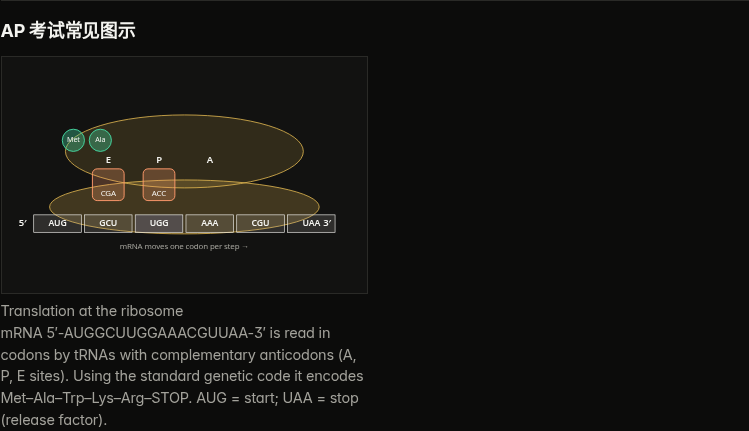
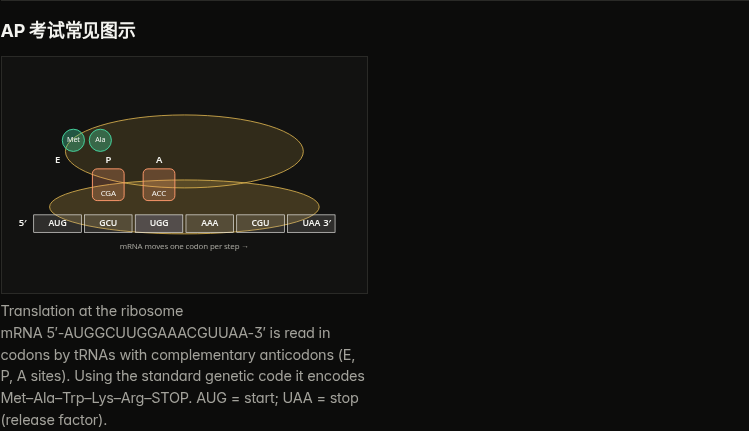
Self-check bio/math figures: fix label alignment and shading

Changed region(s): [[0.0, 0.8144, 0.4913, 0.9049]]

diff --git a/data/math/figures.js b/data/math/figures.js
@@ -190,7 +190,7 @@ def('fdt-chart', 'First derivative test sign chart', 'Sign chart of \\(f\'(x)=3(
 def('candidates', 'Candidates (closed interval) test', '\\(f(x)=2x^3-3x^2-12x\\) on \\([-2,3]\\): \\(f(-2)=-4\\), \\(f(-1)=7\\), \\(f(2)=-20\\), \\(f(3)=-9\\) ⇒ absolute max 7, absolute min −20.', () =>
   plot({ x: [-2.5, 3.5], y: [-24, 12], curves: [{ f: (x) => 2 * x ** 3 - 3 * x * x - 12 * x, dom: [-2, 3], color: C.a }], points: [[-2, -4], [-1, 7], [2, -20], [3, -9]].map(([x, y]) => ({ x, y, label: `(${x}, ${y})`, color: y === 7 || y === -20 ? C.b : C.ink, dy: y === -20 ? 14 : -12 })) }));
 def('concavity', 'Concavity and inflection', '\\(f=\\sin x\\) on \\([0,2\\pi]\\): \\(f\'\'=-\\sin x<0\\) on \\((0,\\pi)\\) (concave down), \\(>0\\) on \\((\\pi,2\\pi)\\) (concave up); inflection at \\(x=\\pi\\).', () =>
-  plot({ x: [0, 2 * PI], y: [-1.5, 1.5], piX: 0.5, ystep: 0.5, fills: [{ f: () => 1.5, g: () => -1.5, dom: [PI, 2 * PI], color: C.c, op: 0.04 }], curves: [{ f: sin, color: C.a, label: 'f = sin x', labelAt: [0.35, 1.1] }, { f: (x) => -sin(x), color: C.c, dash: '5 3', label: 'f″', labelAt: [4.4, 1.2], labelColor: C.ink }], points: [{ x: PI, y: 0, color: C.b, label: 'inflection' }], texts: [[PI / 2, -1.25, 'concave down', C.ink], [1.5 * PI, -1.25, 'concave up', C.ink]] }));
+  plot({ x: [0, 2 * PI], y: [-1.5, 1.5], piX: 0.5, ystep: 0.5, fills: [{ f: () => 1.5, g: () => -1.5, dom: [PI, 2 * PI], color: C.c, op: 0.08 }], curves: [{ f: sin, color: C.a, label: 'f = sin x', labelAt: [0.35, 1.1] }, { f: (x) => -sin(x), color: C.c, dash: '5 3', label: 'f″', labelAt: [4.4, 1.2], labelColor: C.ink }], points: [{ x: PI, y: 0, color: C.b, label: 'inflection' }], texts: [[PI / 2, -1.25, 'concave down', C.ink], [1.5 * PI, -1.25, 'concave up', C.ink]] }));
 def('sdt', 'Second derivative test', '\\(f=x^4-2x^2\\): \\(f\'=4x^3-4x=0\\) at \\(0,\\pm1\\). \\(f\'\'=12x^2-4\\): \\(f\'\'(\\pm1)=8>0\\) (local min), \\(f\'\'(0)=-4<0\\) (local max).', () =>
   plot({ x: [-2, 2], y: [-1.5, 3], ystep: 0.5, curves: [{ f: (x) => x ** 4 - 2 * x * x, color: C.a }], points: [{ x: -1, y: -1, label: 'f″ = 8: min', dy: 14, anchor: 'end', dx: -4 }, { x: 1, y: -1, label: 'f″ = 8: min', dy: 14 }, { x: 0, y: 0, label: 'f″ = −4: max' }] }));
 def('optimization', 'Optimization: open-top box volume', 'Square sheet 12×12, cut squares of side x: \\(V(x)=x(12-2x)^2\\), \\(V\'=(12-2x)(12-6x)=0\\Rightarrow x=2\\), \\(V_{\\max}=128\\).', () =>
@@ -423,7 +423,7 @@ def('lagrange', 'Lagrange error bound', '', () => {
 });
 def('interval-conv', 'Radius and interval of convergence', '\\(\\ln(1+x)=\\sum_{n=1}^\\infty\\dfrac{(-1)^{n+1}x^n}{n}\\): radius 1, interval \\((-1,1]\\) (shaded). Partial sums \\(S_{10}\\), \\(S_{20}\\) track \\(\\ln(1+x)\\) inside and blow up for \\(|x|>1\\).', () => {
   const S = (N) => (x) => { let s = 0; for (let n = 1; n <= N; n++) s += ((-1) ** (n + 1) * x ** n) / n; return s; };
-  return plot({ x: [-1.5, 1.5], y: [-3, 2], xstep: 0.5, fills: [{ f: () => 2, g: () => -3, dom: [-1, 1], color: C.c, op: 0.03 }], vlines: [{ x: -1, label: 'x = −1' }, { x: 1, label: 'x = 1' }], curves: [{ f: (x) => log(1 + x), dom: [-0.999, 1.5], color: C.ink, w: 2.6, label: 'ln(1+x)', labelAt: [0.3, 0.75] }, { f: S(10), color: C.a, dash: '6 3', label: 'S₁₀', labelAt: [1.15, -1.8] }, { f: S(20), color: C.b, dash: '3 3', label: 'S₂₀', labelAt: [-1.45, -2.7] }] });
+  return plot({ x: [-1.5, 1.5], y: [-3, 2], xstep: 0.5, fills: [{ f: () => 2, g: () => -3, dom: [-1, 1], color: C.c, op: 0.1 }], vlines: [{ x: -1, label: 'x = −1', labelColor: C.ink }, { x: 1, label: 'x = 1', labelColor: C.ink }], curves: [{ f: (x) => log(1 + x), dom: [-0.999, 1.5], color: C.ink, w: 2.6, label: 'ln(1+x)', labelAt: [0.3, 0.75] }, { f: S(10), color: C.a, dash: '6 3', label: 'S₁₀', labelAt: [1.15, -1.8] }, { f: S(20), color: C.b, dash: '3 3', label: 'S₂₀', labelAt: [-1.45, -2.7] }] });
 });
 def('maclaurin-cos', 'Maclaurin series for cos x', '\\(\\cos x=\\sum_{n=0}^\\infty\\dfrac{(-1)^nx^{2n}}{(2n)!}=1-\\dfrac{x^2}{2!}+\\dfrac{x^4}{4!}-\\cdots\\), converges for all real x. Polynomials \\(P_2\\) to \\(P_8\\) shown.', () => {
   const P = (n) => (x) => { let s = 0; for (let k = 0; 2 * k <= n; k++) s += ((-1) ** k * x ** (2 * k)) / fact(2 * k); return s; };
@@ -469,7 +469,7 @@ function matrixFig(M, lbl) {
 def('matrix-transform', 'Matrix as a linear transformation', '\\(\\begin{bmatrix}2&1\\\\0&1\\end{bmatrix}\\) maps the unit square (grey) to a parallelogram of area \\(|\\det|=2\\); the columns are the images of \\(\\hat\\imath\\) and \\(\\hat\\jmath\\).', () => matrixFig([[2, 1], [0, 1]], 'matrix transform'));
 def('matrix-rot', 'Rotation matrix', 'Rotation by \\(\\dfrac{\\pi}{4}\\): \\(\\begin{bmatrix}\\cos\\theta&-\\sin\\theta\\\\\\sin\\theta&\\cos\\theta\\end{bmatrix}\\), det = 1 (area preserved).', () => matrixFig([[cos(PI / 4), -sin(PI / 4)], [sin(PI / 4), cos(PI / 4)]], 'rotation matrix'));
 def('rational-analysis', 'Rational function: asymptotes, hole, intercepts', '\\(f(x)=\\dfrac{(x-1)(x+3)}{(x-1)(x-2)}\\): hole at \\((1,-4)\\), vertical asymptote \\(x=2\\), horizontal asymptote \\(y=1\\), x-intercept \\(-3\\), y-intercept \\(f(0)=-\\dfrac32\\).', () =>
-  plot({ x: [-6, 7], y: [-8, 8], vlines: [{ x: 2, label: 'x = 2' }], hlines: [{ y: 1, label: 'y = 1' }], curves: [{ f: (x) => (abs(x - 1) < 1e-9 ? NaN : ((x - 1) * (x + 3)) / ((x - 1) * (x - 2))), n: 1300, color: C.a }], points: [{ x: 1, y: -4, open: true, color: C.a, label: 'hole (1, −4)', anchor: 'end', dx: -8 }, { x: -3, y: 0, label: '(−3, 0)', dy: 14 }, { x: 0, y: -1.5, label: '(0, −3/2)', anchor: 'end', dx: -8 }] }));
+  plot({ x: [-6, 7], y: [-8, 8], vlines: [{ x: 2, label: 'x = 2' }], hlines: [{ y: 1, label: 'y = 1' }], curves: [{ f: (x) => (abs(x - 1) < 1e-9 ? NaN : ((x - 1) * (x + 3)) / ((x - 1) * (x - 2))), n: 1300, color: C.a }], points: [{ x: 1, y: -4, open: true, color: C.a, label: 'hole (1, −4)', anchor: 'start', dx: 10, dy: 14 }, { x: -3, y: 0, label: '(−3, 0)', anchor: 'end', dx: -8, dy: -12 }, { x: 0, y: -1.5, label: '(0, −3/2)', anchor: 'start', dx: 10, dy: 14 }] }));
 def('exp-log-model', 'Exponential decay model (half-life)', '\\(A(t)=100\\left(\\tfrac12\\right)^{t/5}\\): half-life 5, so A halves every 5 units. Taking logs, \\(\\ln A=\\ln100-\\dfrac{\\ln2}{5}t\\) is linear in t.', () =>
   plot({ x: [0, 21], y: [0, 110], xlabel: 't', ylabel: 'A', curves: [{ f: (t) => 100 * 0.5 ** (t / 5), color: C.a }], points: [0, 5, 10, 15, 20].map((t) => ({ x: t, y: 100 * 0.5 ** (t / 5), label: fmt(100 * 0.5 ** (t / 5), 2) })) }));
 def('rate-intuition', 'Rate of change intuition: shrinking intervals', 'Distance \\(d(t)=4.9t^2\\): average speeds on \\([1,2],[1,1.5],[1,1.1],[1,1.01]\\) are \\(14.7, 12.25, 10.29, 9.849\\) m/s, approaching the instantaneous speed \\(9.8\\) m/s at \\(t=1\\).', () =>

diff --git a/data/bio/figures.js b/data/bio/figures.js
@@ -22,7 +22,7 @@ function peakOf(f, a, b) { let bx = a, by = -1; for (let x = a; x <= b; x += 0.0
 def('enz-temp', 'Enzyme activity vs temperature', '', () => {
   const h = enzT(45), t = enzT(85), [ph, py] = peakOf(h, 0, 100), [tp, ty] = peakOf(t, 0, 100), s = 1 / Math.max(py, ty);
   setCap('enz-temp', `Rate = Arrhenius factor \\(e^{-E_a/RT}\\) (\\(E_a=50\\) kJ/mol) × fraction folded (two-state unfolding). Human enzyme (\\(T_m=45\\)°C) peaks near ${fmt(ph, 0)}°C; thermophile enzyme (\\(T_m=85\\)°C) near ${fmt(tp, 0)}°C. Above the optimum, denaturation causes the steep drop.`);
-  return plot({ x: [0, 100], y: [0, 1.1], ystep: 0.2, xlabel: 'temperature (°C)', ylabel: 'relative rate', curves: [{ f: (T) => h(T) * s, color: C.a, label: 'human enzyme', labelAt: [12, 0.42] }, { f: (T) => t(T) * s, color: C.b, label: 'thermophile (Taq-like)', labelAt: [48, 1.02] }], vlines: [{ x: ph, label: `opt ${fmt(ph, 0)}°C`, color: C.a }] });
+  return plot({ x: [0, 100], y: [0, 1.1], ystep: 0.2, xlabel: 'temperature (°C)', ylabel: 'relative rate', curves: [{ f: (T) => h(T) * s, color: C.a, label: 'human enzyme', labelAt: [12, 0.42] }, { f: (T) => t(T) * s, color: C.b, label: 'thermophile (Taq-like)', labelAt: [58, 1.02] }], vlines: [{ x: ph, label: `opt ${fmt(ph, 0)}°C`, color: C.a }] });
 });
 def('enz-ph', 'Enzyme activity vs pH', 'Bell-shaped activity profiles centered on each enzyme\'s optimum: pepsin (stomach) ≈ pH 2, salivary amylase ≈ pH 7, trypsin (small intestine) ≈ pH 8. Away from the optimum, altered ionization of R-groups disrupts the active site.', () =>
   plot({ x: [0, 14], y: [0, 1.15], ystep: 0.2, xstep: 1, xlabel: 'pH', ylabel: 'relative rate', curves: [{ f: (x) => gauss(x, 2, 0.9), color: C.e, label: 'pepsin', labelAt: [2.3, 1.05] }, { f: (x) => gauss(x, 7, 1.1), color: C.a, label: 'amylase', labelAt: [5.2, 1.05] }, { f: (x) => gauss(x, 8, 1.0), color: C.c, label: 'trypsin', labelAt: [8.3, 1.05] }] }));
@@ -120,7 +120,7 @@ def('ph-scale', 'The pH scale', '\\(\\mathrm{pH}=-\\log[\\mathrm{H^+}]\\): each 
   const W = 520, H = 150, X = (p) => 30 + p * 33; let s = '';
   for (let p = 0; p < 14; p++) { const t = p / 13, col = `hsl(${t * 260},70%,55%)`; s += rect(X(p), 50, 33, 30, { fill: col, op: 0.85, stroke: 'none' }); }
   for (let p = 0; p <= 14; p++) s += text(X(p), 92, String(p), { size: 10 });
-  [['stomach', 1.5], ['lemon', 2.3], ['coffee', 5], ['water', 7], ['blood', 7.4], ['seawater', 8.1], ['ammonia', 11.6], ['bleach', 12.5]].forEach(([n, p], i) => { const y = i % 2 ? 125 : 30; s += line(X(p), i % 2 ? 80 : 50, X(p), y + (i % 2 ? -8 : 8), { color: C.muted, w: 1 }) + text(X(p), y, `${n} ${p}`, { size: 10 }); });
+  [['stomach', 1.5, 0], ['lemon', 2.3, 0], ['coffee', 5, 0], ['water', 7, -14], ['blood', 7.4, 0], ['seawater', 8.1, 16], ['ammonia', 11.6, 0], ['bleach', 12.5, 0]].forEach(([n, p, dx], i) => { const y = i % 2 ? 125 : 30; const lx = X(p) + dx; s += line(X(p), i % 2 ? 80 : 50, lx, y + (i % 2 ? -8 : 8), { color: C.muted, w: 1 }) + text(lx, y, `${n} ${p}`, { size: 10 }); });
   s += text(X(2), 140, '← acidic  [H⁺] > 10⁻⁷ M', { size: 10, color: C.e }) + text(X(12), 140, 'basic →', { size: 10, color: C.a });
   return svg(W, H, s, 'pH scale');
 });
@@ -493,10 +493,10 @@ def('transcription-splicing', 'Transcription and RNA processing', 'RNA polymeras
 });
 def('translation', 'Translation at the ribosome', '', () => {
   const dna = 'ATGGCTTGGAAACGTTAA', mrna = dna.replace(/T/g, 'U'), aa = translate(dna);
-  setCap('translation', `mRNA 5′-${mrna}-3′ is read in codons by tRNAs with complementary anticodons (A, P, E sites). Using the standard genetic code it encodes ${[...aa].map((a) => ({ M: 'Met', A: 'Ala', W: 'Trp', K: 'Lys', R: 'Arg', '*': 'STOP' })[a]).join('–')}. AUG = start; UAA = stop (release factor).`);
+  setCap('translation', `mRNA 5′-${mrna}-3′ is read in codons by tRNAs with complementary anticodons (E, P, A sites). Using the standard genetic code it encodes ${[...aa].map((a) => ({ M: 'Met', A: 'Ala', W: 'Trp', K: 'Lys', R: 'Arg', '*': 'STOP' })[a]).join('–')}. AUG = start; UAA = stop (release factor).`);
   let s = `<ellipse cx="230" cy="70" rx="150" ry="46" fill="${C.d}" fill-opacity="0.15" stroke="${C.d}"/>` + `<ellipse cx="230" cy="140" rx="170" ry="34" fill="${C.d}" fill-opacity="0.22" stroke="${C.d}"/>`;
   const cod = mrna.match(/.{3}/g); cod.forEach((c, i) => { s += rect(40 + i * 64, 150, 60, 22, { fill: i === 2 ? C.a : C.muted, op: 0.2, stroke: C.ink, w: 0.8 }) + text(70 + i * 64, 161, c, { size: 11, bold: true }); });
-  ['E', 'P', 'A'].forEach((t, i) => { s += text(134 + i * 64, 82, t, { size: 12, bold: true, color: C.ink }); });
+  ['E', 'P', 'A'].forEach((t, i) => { s += text(70 + i * 64, 82, t, { size: 12, bold: true, color: C.ink }); });
   [[1, 'CGA'], [2, 'ACC']].forEach(([i, ac]) => { s += rect(40 + i * 64 + 10, 92, 40, 40, { rx: 6, fill: C.b, op: 0.25, stroke: C.b }) + text(70 + i * 64, 124, ac, { size: 10 }); });
   s += [...'MA'].map((a, i) => circle(90 + i * 34, 56, 14, { fill: C.c, op: 0.35, stroke: C.c }) + text(90 + i * 34, 56, { M: 'Met', A: 'Ala' }[a], { size: 9 })).join('') + text(410, 161, '3′', { bold: true }) + text(26, 161, '5′', { bold: true }) + text(230, 190, 'mRNA moves one codon per step →', { size: 10, color: C.muted });
   return svg(460, 200, s, 'translation');

diff --git a/data/math/figlib.js b/data/math/figlib.js
@@ -130,8 +130,8 @@ export function plot(o) {
     g += path(toD(pts, X, Y, (y1 - y0) * 2.5), { stroke: col, w: cv.w || 2, dash: cv.dash });
     if (cv.label) { const at = cv.labelAt || pts[Math.floor(pts.length * 0.85)] || [x1, y1]; g += text(X(at[0]) + (cv.dx || 4), Y(at[1]) + (cv.dy || -10), cv.label, { size: 11, color: cv.labelColor || col, anchor: cv.anchor || 'start', bold: true }); }
   });
-  (o.vlines || []).forEach((v) => { g += line(X(v.x), T, X(v.x), H - B, { color: v.color || C.muted, dash: v.dash ?? '5 4', w: 1.2 }); if (v.label) g += text(X(v.x) + 4, T + 10, v.label, { size: 10, anchor: 'start', color: v.color || C.muted }); });
-  (o.hlines || []).forEach((v) => { g += line(L, Y(v.y), W - R, Y(v.y), { color: v.color || C.muted, dash: v.dash ?? '5 4', w: 1.2 }); if (v.label) g += text(W - R - 4, Y(v.y) - 8, v.label, { size: 10, anchor: 'end', color: v.color || C.muted }); });
+  (o.vlines || []).forEach((v) => { g += line(X(v.x), T, X(v.x), H - B, { color: v.color || C.muted, dash: v.dash ?? '5 4', w: 1.2 }); if (v.label) g += text(X(v.x) + 4, T + 10, v.label, { size: 10, anchor: 'start', color: v.labelColor || v.color || C.muted }); });
+  (o.hlines || []).forEach((v) => { g += line(L, Y(v.y), W - R, Y(v.y), { color: v.color || C.muted, dash: v.dash ?? '5 4', w: 1.2 }); if (v.label) g += text(W - R - 4, Y(v.y) - 8, v.label, { size: 10, anchor: 'end', color: v.labelColor || v.color || C.muted }); });
   (o.segs || []).forEach((sg) => { g += line(X(sg[0]), Y(sg[1]), X(sg[2]), Y(sg[3]), { color: sg[4] || C.ink, w: sg[5] || 1.5, dash: sg[6], arrow: sg[7] }); });
   s += `<g clip-path="url(#${clipId})">${g}</g>`;
   (o.points || []).forEach((p) => {

diff --git a/audit/figure-coverage-bio-math.md b/audit/figure-coverage-bio-math.md
@@ -13,6 +13,16 @@ Unique figures: bio 125, math 174, total 299. Verified via Playwright (box Chrom
 - **Gap table:** `audit/figure-gaps-bio-math.md` lists all 130 topics with only one variant (24 bio, 106 math). No topic has zero figures; filling the one-variant gaps is deferred to a later session.
 - **Screenshots:** `screenshots/figures-bio-math/before/` and `screenshots/figures-bio-math/after/` (light + dark, representative fixed topics).
 
+### Self-check — 2026-11-06 (post-`c4d9765`)
+
+- Re-read the shipped diff (`data/bio/figures.js`, `data/math/figures.js`, `data/math/figlib.js`, `css/main.css`, this checklist, the preview, the gap table) and re-ran the build audit, the 494-load mount scan, the shape-aware contrast scan, `scripts/check-math-notation.mjs`, and the preview at 1280/380 px in both themes. All still pass: 0 mount issues, 0 KaTeX errors, 0 text-contrast failures, 0 horizontal overflow.
+- Fixed three follow-ups found during the re-read:
+  - `translation`: `E/P/A` labels were one codon to the right; moved to `x = 70/134/198` so each aligns with its mRNA codon/tRNA, and caption order changed to `E, P, A`.
+  - `concavity` / `interval-conv`: shading had been lightened too far to keep labels AA-compliant, making it nearly invisible; restored to `opacity 0.08` / `0.10` and added `labelColor` for vline/hline labels in `figlib.js` so the labels stay dark/light while the fill remains visible.
+  - Pre-existing label collisions surfaced by a text-bbox sweep: pH scale `water 7`/`seawater 8.1`, enzyme-temperature `opt 41°C`/`thermophile`, and rational-analysis point labels. Separated without changing the underlying data.
+- Remaining bbox hits are multi-line label adjacency (`glycolysis`/`(cytosol)`), stacked-fraction parts, or tick labels 1–2 px from annotations; no unreadable collisions remain in the sampled set.
+- Baseline SHAs self-checked: web `c4d9765`, app `3370151`. The follow-up fixes are committed after this note.
+
 ## bio
 
 ### bio-prep-chem
